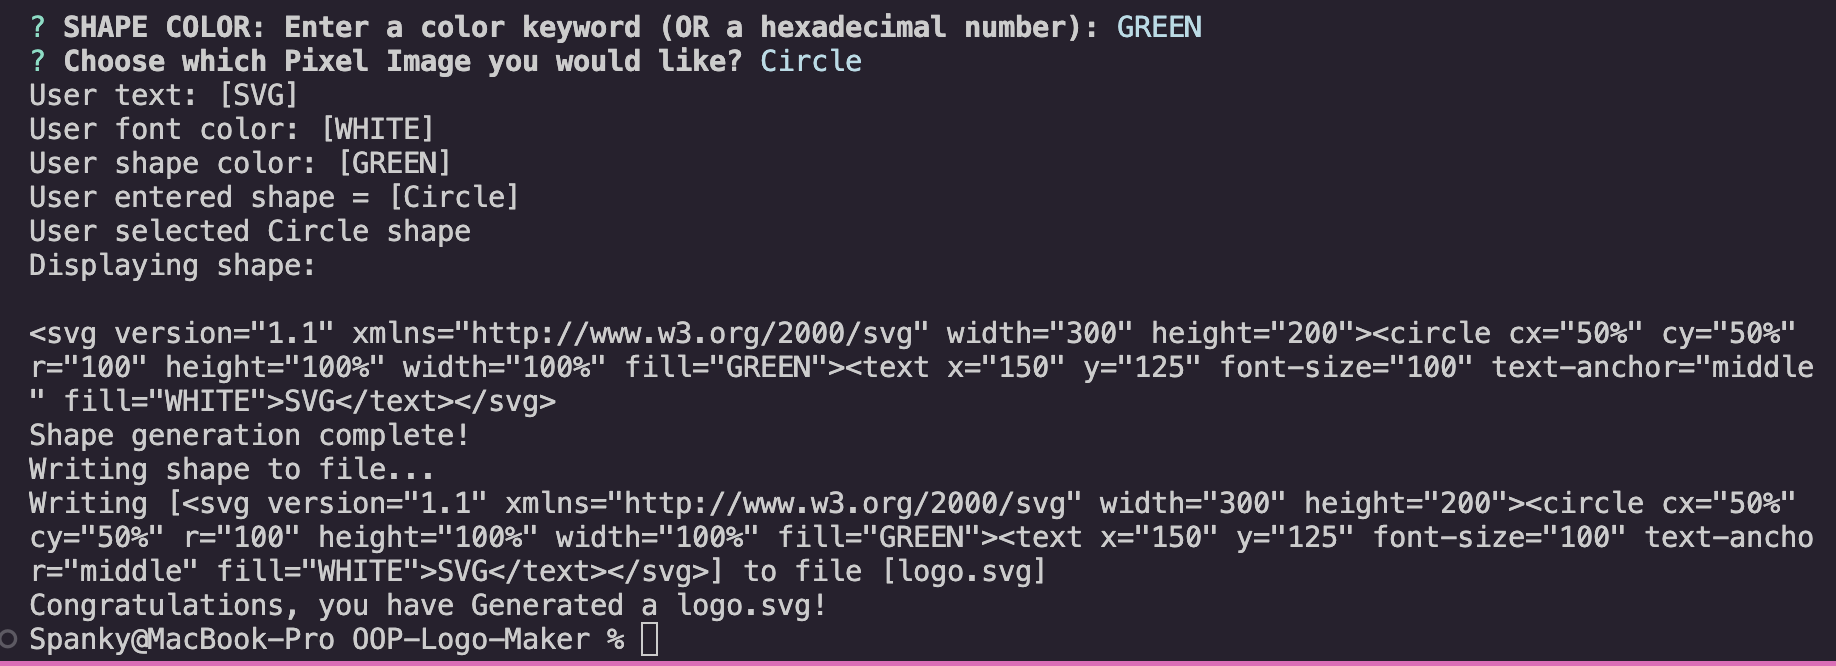
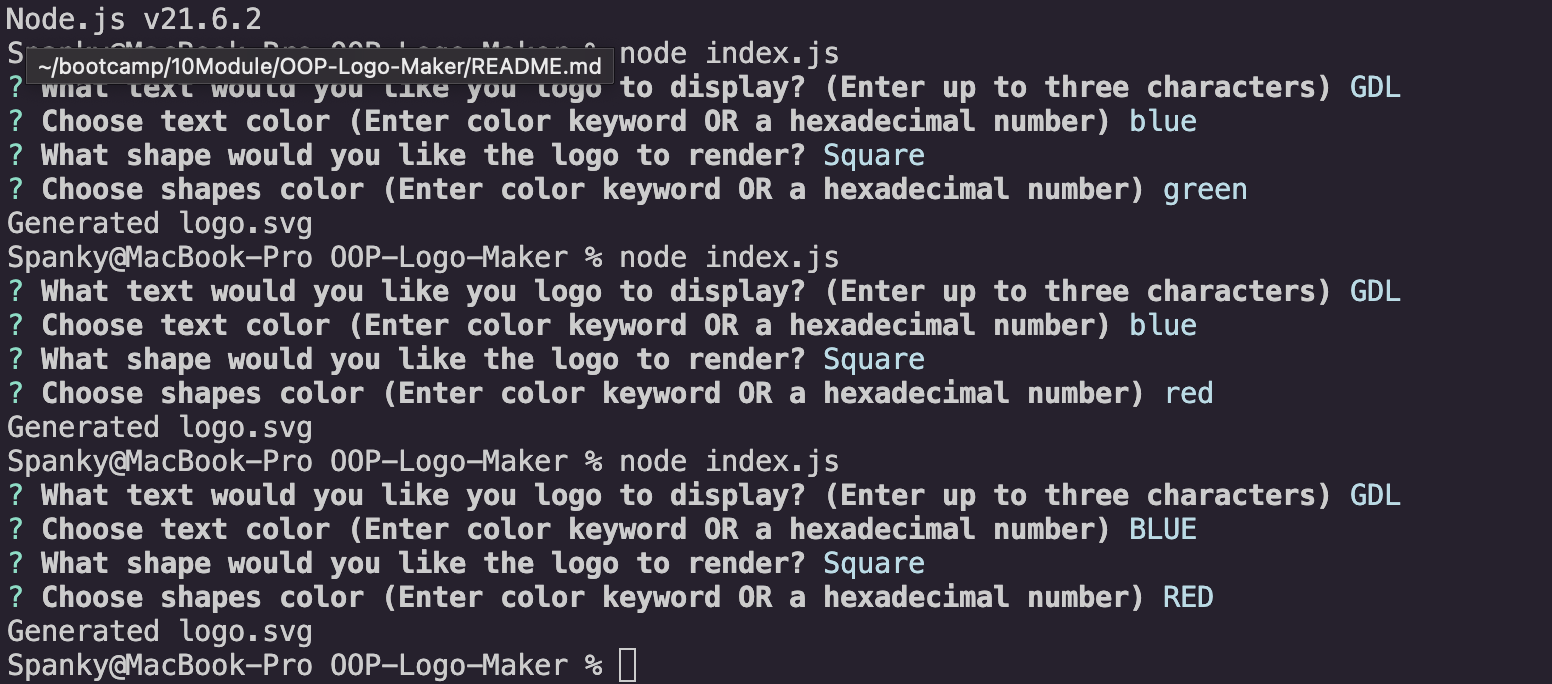
updated

Changed region(s): [[0.0, 0.0, 1.0, 1.0]]

diff --git a/index.js b/index.js
@@ -1,115 +1,71 @@
-const filesystem = require('./node_modules/graceful-fs/graceful-fs')
 const inquirer = require("inquirer");
-const {Circle, Square, Triangle} = require("./lib/shapes");
+const fs = require("fs");
+const { Triangle, Square, Circle } = require("./lib/shapes");
 
-class Svg{
-    constructor(){
-        this.textElement = ''
-        this.shapeElement = ''
-    }
-    render(){
+function writeToFile(fileName, answers) {
+  let svgString = "";
+  svgString =
+    '<svg version="1.1" width="300" height="200" xmlns="http://www.w3.org/2000/svg">';
+  svgString += "<g>";
+  svgString += `${answers.shape}`;
 
-        return `<svg width="300" height="200" xmlns="http://www.w3.org/2000/svg"> ${this.textElement} ${this.shapeElement} </svg>`
-    }
+  let shapeChoice;
+  if (answers.shape === "Triangle") {
+    shapeChoice = new Triangle();
+    svgString += `<polygon points="150, 18 244, 182 56, 182" fill="${answers.shapeBackgroundColor}"/>`;
+  } else if (answers.shape === "Square") {
+    shapeChoice = new Square();
+    svgString += `<rect x="73" y="40" width="160" height="160" fill="${answers.shapeBackgroundColor}"/>`;
+  } else {
+    shapeChoice = new Circle();
+    svgString += `<circle cx="150" cy="115" r="80" fill="${answers.shapeBackgroundColor}"/>`;
+  }
 
-    setTextElement(text,color){
-        this.textElement = `<text x="150" y="125" font-size="60" text-anchor="middle" fill="${color}">${text}</text>`;
-    }
+  svgString += `<text x="150" y="130" text-anchor="middle" font-size="80" fill="${answers.textColor}">${answers.text}</text>`;
+  svgString += "</g>";
+  svgString += "</svg>";
 
-    setShapeElement(shape){
-        this.shapeElement = shape.render()
-
-    }
-    
+  fs.writeFile(fileName, svgString, (err) => {
+    err ? console.log(err) : console.log("Generated logo.svg");
+  });
 }
 
-const questions = [
-    {
+function promptUser() {
+  inquirer
+    .prompt([
+      {
         type: "input",
+        message:
+          "What text would you like you logo to display? (Enter up to three characters)",
         name: "text",
-        message: "TEXT: Enter up to (3) Characters:",
-    },
-    {
+      },
+      {
         type: "input",
-        name: "text-color",
-        message: "TEXT COLOR: Enter a color keyword (OR a hexadecimal number):",
-    },
-    {
-        type: "input",
-        name: "shape",
-        message: "SHAPE COLOR: Enter a color keyword (OR a hexadecimal number):",
-    },
-    {
+        message:
+          "Choose text color (Enter color keyword OR a hexadecimal number)",
+        name: "textColor",
+      },
+      {
         type: "list",
-        name: "pixel-image",
-        message: "Choose which Pixel Image you would like?",
-        choices: ["Circle", "Square", "Triangle"],
-    },
-];
-
-function writeToFile(fileName, data) {
-	console.log("Writing [" + data + "] to file [" + fileName + "]")
-    filesystem.writeFile(fileName, data, function (err) {
-        if (err) {
-            return console.log(err);
-        }
-        console.log("Congratulations, you have Generated a logo.svg!");
+        message: "What shape would you like the logo to render?",
+        choices: ["Triangle", "Square", "Circle"],
+        name: "shape",
+      },
+      {
+        type: "input",
+        message:
+          "Choose shapes color (Enter color keyword OR a hexadecimal number)",
+        name: "shapeBackgroundColor",
+      },
+    ])
+    .then((answers) => {
+      if (answers.text.length > 3) {
+        console.log("Must enter a value of no more than 3 characters");
+        promptUser();
+      } else {
+        writeToFile("logo.svg", answers);
+      }
     });
 }
 
-async function init() {
-    console.log("Starting init");
-	var svgString = "";
-	var svg_file = "logo.svg";
-
-    const answers = await inquirer.prompt(questions);
-
-	var user_text = "";
-	if (answers.text.length > 0 && answers.text.length < 4) {
-		user_text = answers.text;
-	} else {
-	
-		console.log("Invalid user text field detected! Please enter 1-3 Characters, no more and no less");
-        return;
-	}
-	console.log("User text: [" + user_text + "]");
-
-	user_font_color = answers["text-color"];
-	console.log("User font color: [" + user_font_color + "]");
-	
-	user_shape_color = answers.shape;
-	console.log("User shape color: [" + user_shape_color + "]");
-	
-	user_shape_type = answers["pixel-image"];
-	console.log("User entered shape = [" + user_shape_type + "]");
-	
-	let user_shape;
-	if (user_shape_type === "Square" || user_shape_type === "square") {
-		user_shape = new Square();
-		console.log("User selected Square shape");
-	}
-	else if (user_shape_type === "Circle" || user_shape_type === "circle") {
-		user_shape = new Circle();
-		console.log("User selected Circle shape");
-	}
-	else if (user_shape_type === "Triangle" || user_shape_type === "triangle") {
-		user_shape = new Triangle();
-		console.log("User selected Triangle shape");
-	}
-	else {
-		console.log("Invalid shape!");
-	}
-	user_shape.setColor(user_shape_color);
-
-	var svg = new Svg();
-	svg.setTextElement(user_text, user_font_color);
-	svg.setShapeElement(user_shape);
-	svgString = svg.render();
-	
-	console.log("Displaying shape:\n\n" + svgString);
-
-	console.log("Shape generation complete!");
-	console.log("Writing shape to file...");
-	writeToFile(svg_file, svgString); 
-}
-init()
+promptUser();

diff --git a/README.md b/README.md
@@ -22,7 +22,7 @@ In this week's challenge we created an application that takes user input into a 
 ### Figure 2. Jest Testing "npm test"
 ![](./images/NPM%20test.png)
 ### Figure 3. Generated "logo.svg" file
-![](./images/generated-logo.svg.png)
+![](./images/logo.png)
 
 ## Installation Process
 1. Clone the repository: [Johnny's OOP Logo Maker](https://github.com/xJohnnyy/OOP-Logo-Maker)
